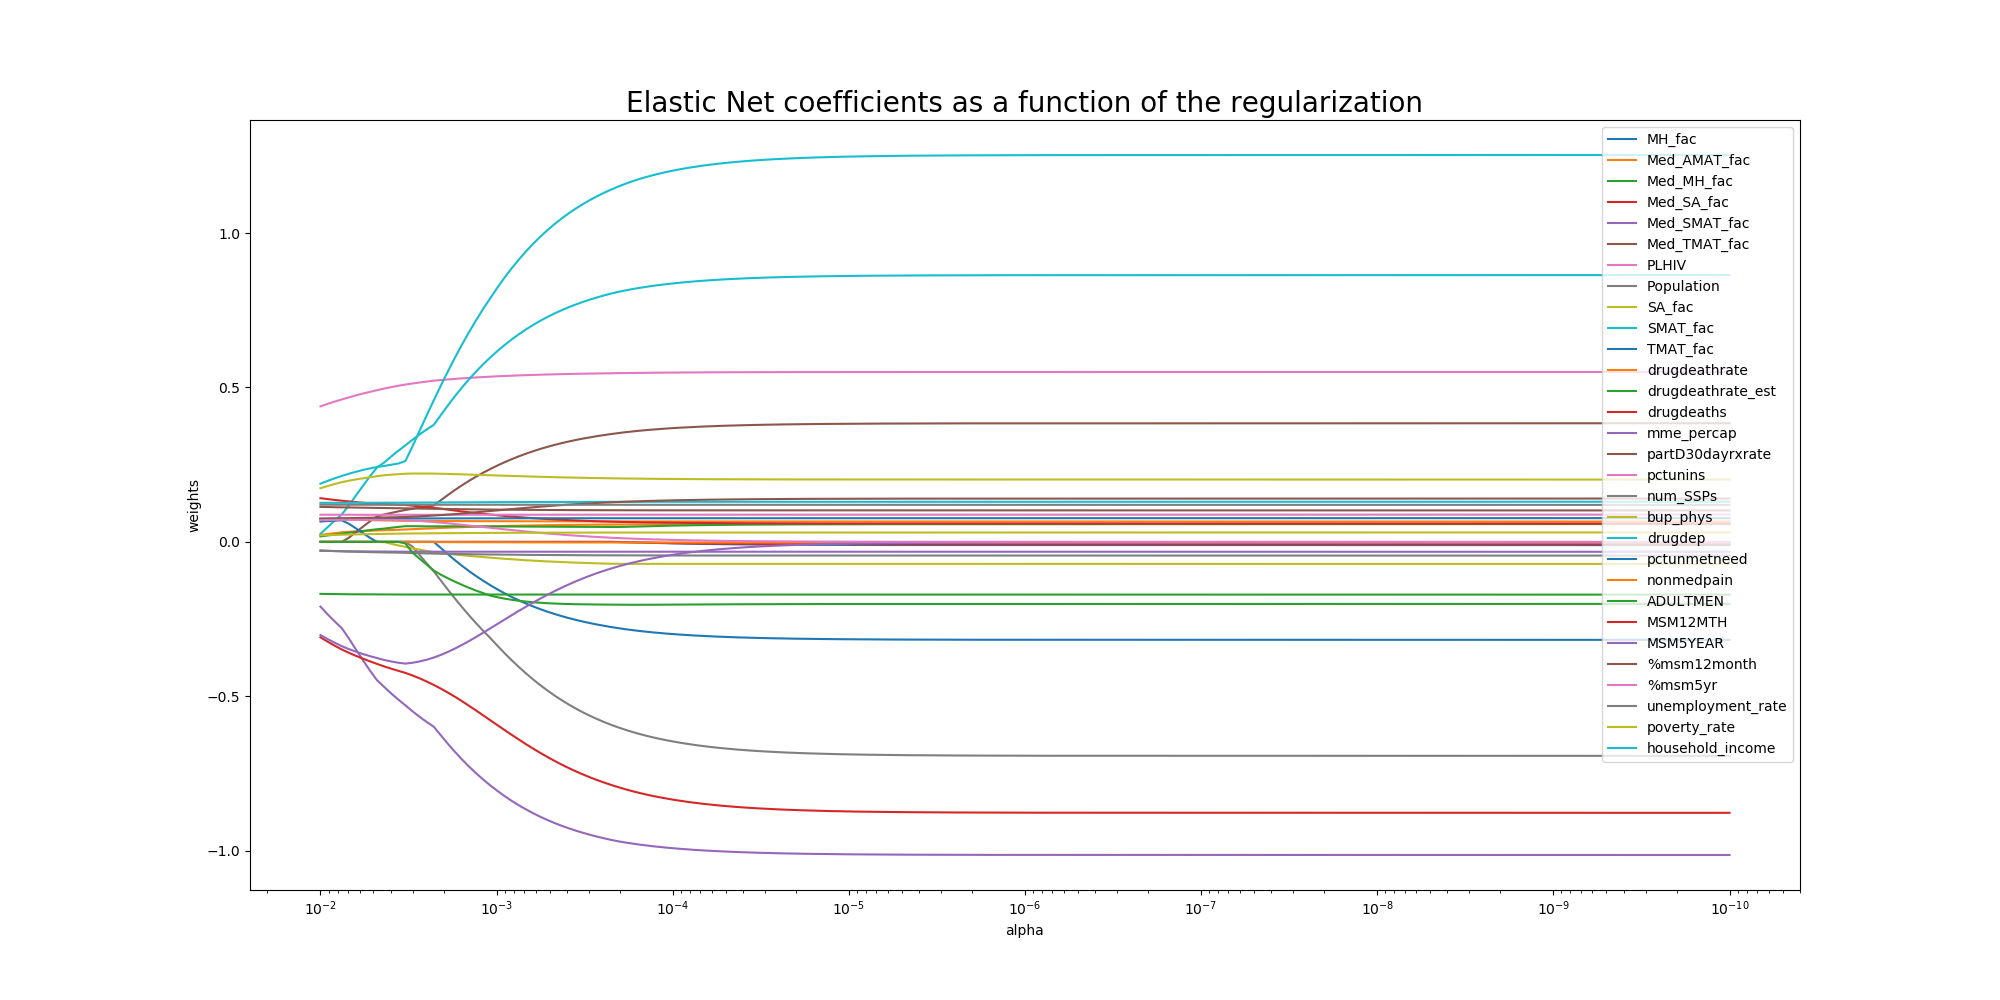
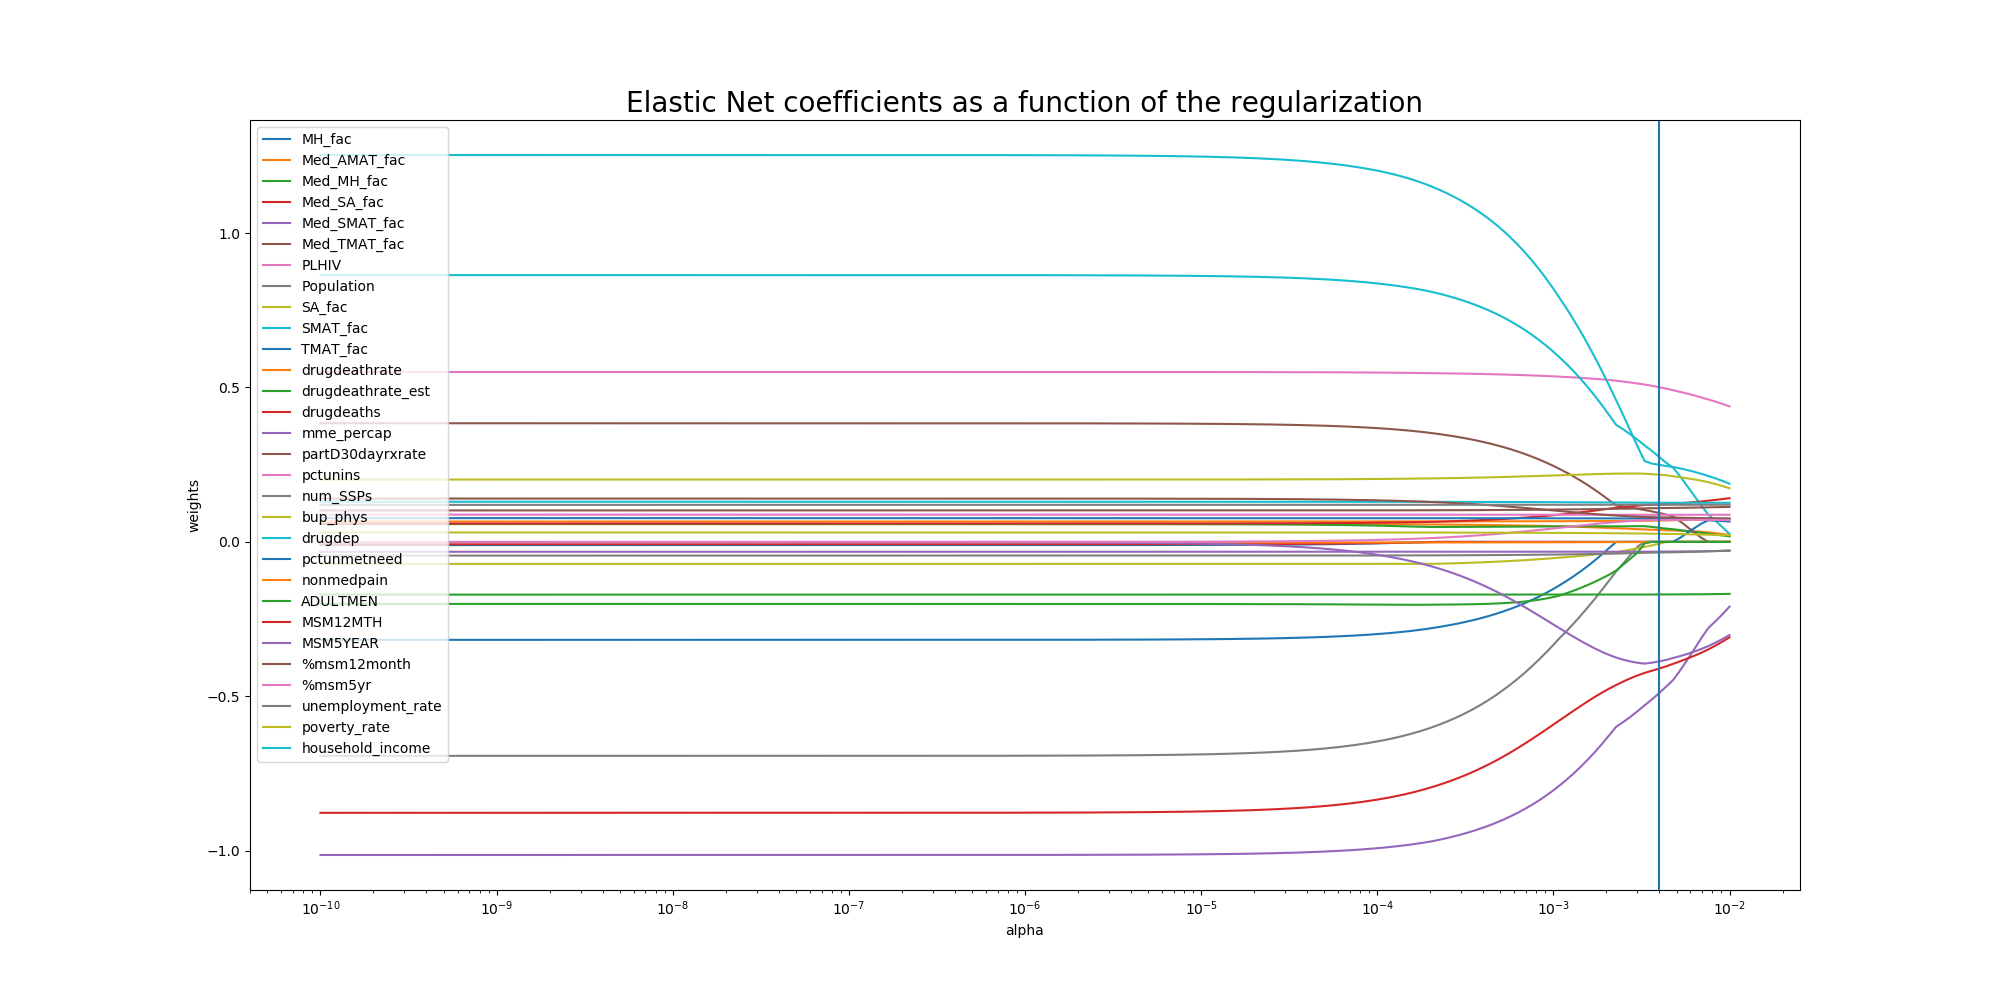
new images

diff --git a/src_dan/modeling.py b/src_dan/modeling.py
@@ -81,7 +81,84 @@ if __name__ == '__main__':
     df = df[df['HIVincidence']<750]
 
     n_alphas = 200
-    alphas = np.logspace(-10, -2, n_alphas)
+    alphas = np.logspace(-5, 2, n_alphas)
+    
+
+    # ax = plt.gca()
+    # ax.plot(alphas, coefs)
+    # ax.set_xscale('log')
+    # ax.set_xlim(ax.get_xlim()[::-1])  # reverse axis
+    # plt.xlabel('alpha')
+    # plt.ylabel('weights')
+    # plt.title('Ridge coefficients as a function of the regularization')
+    # plt.axis('tight')
+    # plt.show()
+
+
+
+
+    errors = []
+    errors1 = []
+    errors2 = []
+    errors3 = []
+    for alpha in alphas:
+        modeler = Modeling(df, 6, 8, Ridge(alpha = alpha), 10)
+        # modeler1 = Modeling(df, 6, 8, Lasso(alpha = alpha), 10)
+        # modeler2 = Modeling(df, 6, 8, ElasticNet(alpha = alpha), 10)
+        # modeler3 = Modeling(df, 6, 8, LinearRegression(), 10)
+        modeler.df_to_x_y()
+        modeler.split_data()
+        modeler.standardize()
+        modeler.fit()
+        # modeler1.df_to_x_y()
+        # modeler1.split_data()
+        # modeler1.standardize()
+        # modeler1.fit()
+        # modeler2.df_to_x_y()
+        # modeler2.split_data()
+        # modeler2.standardize()
+        # modeler2.fit()
+        # modeler3.df_to_x_y()
+        # modeler3.split_data()
+        # modeler3.standardize()
+        # modeler3.fit()
+        # modeler.fit()
+        # error = modeler.predict()
+        error = modeler.cross_val_score()
+        errors.append(error)
+        # error1 = modeler1.cross_val_score()
+        # errors1.append(error1)
+        # error2 = modeler2.cross_val_score()
+        # errors2.append(error2)
+        # error3 = modeler3.cross_val_score()
+        # errors3.append(error3)
+
+    
+    errors_idx = np.argmin(errors)
+    # errors1_idx = np.argmin(errors1)
+    # errors2_idx = np.argmin(errors2)
+    # errors3_idx = np.argmin(errors3)
+
+
+    # fig, ax = plt.subplots(figsize = (20, 10))
+    # ax.plot(alphas, errors, label = 'Ridge')
+    # ax.plot(alphas, errors1, label = 'Lasso')
+    # ax.plot(alphas, errors2, label = 'Elastic Net')
+    # ax.plot(alphas, errors3, label = 'Linear Regression')
+    # ax.axvline(alphas[errors_idx])
+    # ax.axvline(alphas[errors1_idx])
+    # ax.axvline(alphas[errors2_idx])
+    # ax.axvline(alphas[errors3_idx])
+    # ax.set_xscale('log')
+    # # ax.set_xlim(ax.get_xlim()[::-1])  # reverse axis
+    # ax.set_title('CV Model Performance Across Alpha Values', size = 20)
+    # ax.set_xlabel('Alpha Value')
+    # ax.set_ylabel('RMSE')
+    # fig.legend()
+    # fig.savefig('model_performance_across_alphas.png')
+    # plt.show()
+
+
     coefs = []
     for alpha in alphas:
         modeler = Modeling(df, 6, 8, ElasticNet(alpha = alpha), 10)
@@ -99,80 +176,17 @@ if __name__ == '__main__':
     fig, ax = plt.subplots(figsize = (20, 10))
     for i in range(len(coefs_df.columns)):
         ax.plot(alphas, coefs_df.iloc[:, i], label = coefs_df.iloc[:, i].name)
+    ax.axvline(alphas[errors_idx])
     ax.set_xscale('log')
-    ax.set_xlim(ax.get_xlim()[::-1])  # reverse axis
+    # ax.set_xlim(ax.get_xlim()[::-1])  # reverse axis
     plt.xlabel('alpha')
     plt.ylabel('weights')
-    plt.title('Elastic Net coefficients as a function of the regularization', fontsize = 20)
+    plt.title('Ridge coefficients as a function of the regularization', fontsize = 20)
     plt.axis('tight')
     plt.legend()
-    fig.savefig('elastic_net_coefs.png')
+    fig.savefig('ridge_coefs.png')
     plt.show()
 
-
-    # ax = plt.gca()
-    # ax.plot(alphas, coefs)
-    # ax.set_xscale('log')
-    # ax.set_xlim(ax.get_xlim()[::-1])  # reverse axis
-    # plt.xlabel('alpha')
-    # plt.ylabel('weights')
-    # plt.title('Ridge coefficients as a function of the regularization')
-    # plt.axis('tight')
-    # plt.show()
-
-
-
-
-    # errors = []
-    # errors1 = []
-    # errors2 = []
-    # errors3 = []
-    # for alpha in alphas:
-    #     modeler = Modeling(df, 6, 8, Ridge(alpha = alpha), 10)
-    #     modeler1 = Modeling(df, 6, 8, Lasso(alpha = alpha), 10)
-    #     modeler2 = Modeling(df, 6, 8, ElasticNet(alpha = alpha), 10)
-    #     modeler3 = Modeling(df, 6, 8, LinearRegression(), 10)
-    #     modeler.df_to_x_y()
-    #     modeler.split_data()
-    #     modeler.standardize()
-    #     modeler.fit()
-    #     modeler1.df_to_x_y()
-    #     modeler1.split_data()
-    #     modeler1.standardize()
-    #     modeler1.fit()
-    #     modeler2.df_to_x_y()
-    #     modeler2.split_data()
-    #     modeler2.standardize()
-    #     modeler2.fit()
-    #     modeler3.df_to_x_y()
-    #     modeler3.split_data()
-    #     modeler3.standardize()
-    #     modeler3.fit()
-    #     # modeler.fit()
-    #     # error = modeler.predict()
-    #     error = modeler.cross_val_score()
-    #     errors.append(error)
-    #     error1 = modeler1.cross_val_score()
-    #     errors1.append(error1)
-    #     error2 = modeler2.cross_val_score()
-    #     errors2.append(error2)
-    #     error3 = modeler3.cross_val_score()
-    #     errors3.append(error3)
-
-    
-    # fig, ax = plt.subplots(figsize = (20, 10))
-    # ax.plot(alphas, errors, label = 'Ridge')
-    # ax.plot(alphas, errors1, label = 'Lasso')
-    # ax.plot(alphas, errors2, label = 'Elastic Net')
-    # ax.plot(alphas, errors3, label = 'Linear Regression')
-    # ax.set_xscale('log')
-    # ax.set_xlim(ax.get_xlim()[::-1])  # reverse axis
-    # ax.set_title('CV Model Performance Across Alpha Values', size = 20)
-    # ax.set_xlabel('Alpha Value')
-    # ax.set_ylabel('RMSE')
-    # fig.legend()
-    # fig.savefig('model_performance_across_alphas.png')
-    # plt.show()
 
     # feature_names = data1['feature_names']
     # raw_data_x = data[0][:100]
